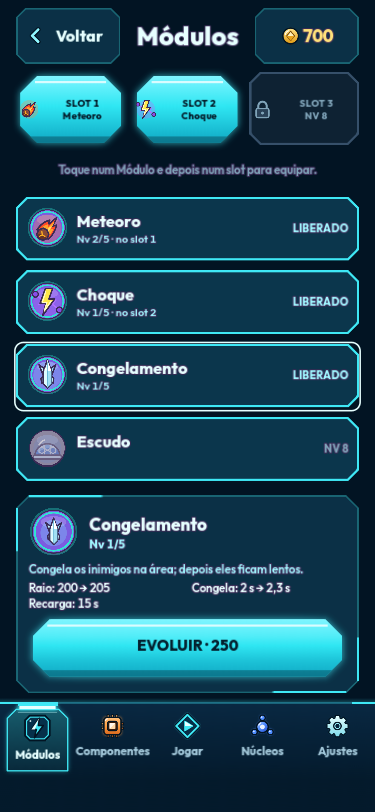
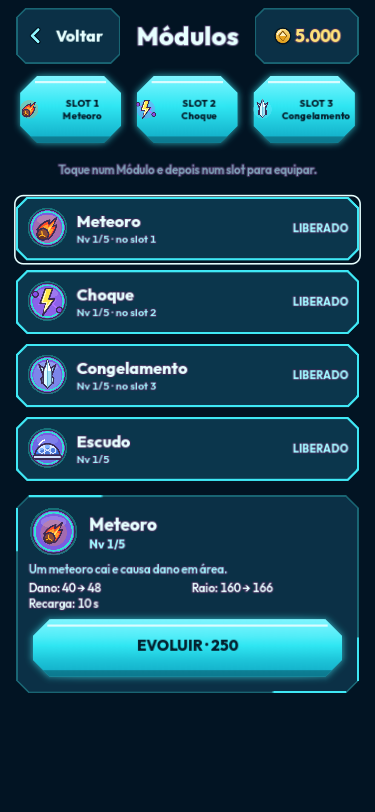
T-301 ressalvas do QA do M5 e fechamento do T-220 (BRF-174)

diff --git a/docs/ui.md b/docs/ui.md
@@ -264,7 +264,7 @@ Spec visual em `docs/arte.md` §11.9; navegação em `docs/arquitetura.md` ("Han
 - **Estados:** ativo = `ui_nav_tab_active` + traço ciano no topo; normal = ícone `ui_icon_nav_*`; pressionado = `ui_nav_tab_pressed`; **bloqueado** = `ui_icon_*_locked` (45% já na arte, sem alfa no código), deslocado 12 px à esquerda, com o selo `ui_nav_lock_chip` (9-slice 38/12/12/12; "NV n" à direita do cadeado) e rótulo `#6F8BA3`.
 - **Bloqueios** (decisão 63, `HangarBarLogic`): Módulos NV 2, Núcleos NV 3, Componentes NV 4; Jogar e Ajustes livres. Tocar no bloqueado não navega: mostra o aviso "{nome} libera no NV {n}" (1,6 s + fade) acima da barra; se a faixa até o JOGAR não couber, o aviso sobe para logo acima do JOGAR, nunca por cima dele.
 - **Núcleos (T-207, BRF-155; sem níveis, T-299, BRF-159, decisão 65)** (`src/ui/screens/cores_screen.*`, `CoresScreen`): topo como o "Em breve" com o saldo de Moeda (`ui_holo_pill` + `ui_icon_coin_small`); árvore 3 × 4 na grade do `assets/ui/README.md` (colunas 150/375/600, passo 200, px do viewport 720) num `ScrollContainer` (abre no topo; só rola se o nó selecionado estiver fora da vista; `follow_focus` desligado); painel de detalhe fixo acima da barra. Cada Núcleo é **compra única**: nó = `Button` 128 (moldura 112) sem selo, com 4 estados por `CoresScreen.node_state`: **bloqueado** (`locked` + ícone `_off`), **disponível** (`ui_talent_node`), **sem Moeda** (mesma moldura e ícone a 60% de alfa) e **comprado** (`owned`); `_selected` no nó escolhido. Cabeçalho da coluna = só o nome do ramo. Ligações `Line2D` acesas quando o pai está comprado. Detalhe: nome, ramo, descrição, "Efeito: +X%", motivo em texto (sem Moeda, "Requer X", NV 3) e **COMPRAR · custo** (`MetaTalents.buy` → save → atualiza tudo); comprado vira **COMPRADO** desabilitado. **Redistribuir** abre a confirmação "Devolve X Moedas e zera os Núcleos" (`ui_cancel` fecha; enquanto aberta, a `HangarBar` (achada na árvore: no hangar real fica em `/root/Hangar`, a tela em `Hangar/Content`) fica com `process_mode` desabilitado, então não recebe toque) e chama `MetaTalents.respec`. Teclado: `ui_up/down/left/right` movem o foco (foco = seleção), `ui_accept` num nó leva ao Comprar. Efeito de compra: `CoresFx.play_buy` + trilho nas ligações novas (`play_max` não é mais usado). Testes: `tests/unit/ui/test_cores_screen.gd`. Capturas: `docs/img/nucleos-simples-*.png`.
-- **Módulos (T-216/T-217, BRF-168)** (`src/ui/screens/modules_screen.*`, `ModulesScreen`; `HangarNav.MODULES` já apontava para a cena, então o `SceneFlow` não mudou): topo igual ao dos Núcleos (Voltar, título, saldo de Moeda). **Faixa de 3 slots** (`Slot1..3`, alvo 126 px do viewport = 64+ px a 375×812): ocupado (placa primária + ícone + nome), vazio (secundária, "vazio") e bloqueado (placa apagada + cadeado + "NV n"). Abaixo, a linha de aviso (dica "Toque num Módulo e depois num slot", ou o resultado/motivo da última ação; motivos em laranja). **Lista** dos 4 Módulos num `ScrollContainer` (linha 126 px): ícone `ui_skill_frame_ready/locked` + `ui_icon_skill_*` (45% se bloqueado), nome, "Nv n/5 · no slot k", e à direita "LIBERADO" ou "NV n"; contorno ciano na linha escolhida. **Detalhe** fixo acima da barra: nome, "Nv n/5", descrição, valores em grade de 2 colunas ("Dano: 57 → 68"; no Nv 5 só o valor; bloqueado mostra o Nv 1), motivo ("Faltam X Moedas", "Libera no NV n") e **EVOLUIR · custo** (`MetaModules.upgrade` → save → atualiza tudo; "NÍVEL MÁXIMO" no Nv 5; desabilitado sem Moeda/bloqueado, e tocar nele treme). **Equipar:** tocar num Módulo o escolhe; tocar num slot liberado o equipa (troca se ocupado por outro); tocar no slot que já tem o escolhido o esvazia; o mesmo Módulo em dois slots é recusado com "X já está no slot n"; slot bloqueado avisa "libera no NV n". Persistência e partida: `MetaModules.equip/unequip` + `Backend.save_profile`; `SceneFlow.build_match_config` entrega `slot_modules` (valores do nível; `null` = vazio). Sem confirmação (evoluir é um toque; a barra só precisa bloquear quando houver confirmação, como em Núcleos). Textos `MODULE_*`/`MODULES_*`. Testes: `tests/unit/ui/test_modules_screen.gd`. Capturas: `docs/img/modulos-tela-{liberado,bloqueado,equipado,maximo}-{375x812,1280x720}.png`.
+- **Módulos (T-216/T-217, BRF-168)** (`src/ui/screens/modules_screen.*`, `ModulesScreen`; `HangarNav.MODULES` já apontava para a cena, então o `SceneFlow` não mudou): topo igual ao dos Núcleos (Voltar, título, saldo de Moeda). **Faixa de 3 slots** (`Slot1..3`, alvo 126 px do viewport = 64+ px a 375×812): ocupado (placa primária + ícone + nome), vazio (secundária, "vazio") e bloqueado (placa apagada + cadeado + "NV n"). Abaixo, a linha de aviso (dica "Toque num Módulo e depois num slot", ou o resultado/motivo da última ação; motivos em laranja). **Lista** dos 4 Módulos num `ScrollContainer` (linha 126 px): ícone `ui_skill_frame_ready/locked` + `ui_icon_skill_*` (45% se bloqueado), nome, "Nv n/5 · no slot k", e à direita "LIBERADO" ou "NV n"; contorno ciano na linha escolhida. **Detalhe** fixo acima da barra: nome, "Nv n/5", descrição, valores em grade de 2 colunas ("Dano: 57 → 68"; no Nv 5 só o valor; bloqueado mostra o Nv 1), motivo ("Faltam X Moedas", "Libera no NV n") e **EVOLUIR · custo** (`MetaModules.upgrade` → save → atualiza tudo; "NÍVEL MÁXIMO" no Nv 5; desabilitado sem Moeda/bloqueado, e tocar nele treme). **Equipar:** tocar num Módulo o escolhe; tocar num slot liberado o equipa (troca se ocupado por outro); tocar no slot que já tem o escolhido o esvazia; o mesmo Módulo em dois slots é recusado com "X já está no slot n"; slot bloqueado avisa "libera no NV n". Persistência e partida: `MetaModules.equip/unequip` + `Backend.save_profile`; `SceneFlow.build_match_config` entrega `slot_modules` (valores do nível; `null` = vazio). Sem confirmação (evoluir é um toque; a barra só precisa bloquear quando houver confirmação, como em Núcleos). Textos `MODULE_*`/`MODULES_*`. Testes: `tests/unit/ui/test_modules_screen.gd`. **Janela larga (BRF-174):** com viewport mais largo que alto a coluna vai a 1000 px, a lista vira grade de 2 colunas e a linha cai para 108 px (as 4 cabem em 1280×720; mouse); em retrato segue 1 coluna de 126 px. **Ícone no HUD (QA-M5-1):** `Hud.bind` lê `arena.skills.skills` (após o `_ready` da Arena) e chama `Hud.apply_slot_modules`: ícone de cada slot = `SkillData.icon` do Módulo equipado; slot liberado sem Módulo = moldura vazia; `slot_icon_paths` agora vem vazio. `skill_shock/freeze/shield.tres` ganharam `icon`. Testes: `test_skill_icon.gd`. Capturas: `docs/img/modulos-tela-{liberado,bloqueado,equipado,maximo}-{375x812,1280x720}.png`.
 - **"Em breve"** (`coming_soon_screen`): destinos sem cena. Topo com Voltar (`ui_holo_pill` + `ui_icon_back`, alvo ≥ 64) e título; painel `ui_holo_panel` com o ícone do conceito da aba, "Em breve" e legenda. A barra continua visível com a aba ativa; Voltar → `SceneFlow.hangar_back`.
 
 ## 9. Safe area

diff --git a/docs/backlog.md b/docs/backlog.md
@@ -135,8 +135,8 @@
 | T-217 | Seleção de Módulos por slot: equipar, salvar e levar ao `MatchConfig` (tam. M) | M5 | AG02 + AG07 | feita |
 | T-218 | Mira manual (arrastar) para os Módulos novos que precisarem (tam. P) | M5 | AG01 + AG02 | feita |
 | T-219 | Balanceamento dos 4 Módulos e bot que usa todos (tam. M) | M5 | AG04 | feita |
-| T-220 | Validação e fechamento da v0.2.3 (tag) (tam. P) | M5 | AG03 + AG00 | em andamento |
-| T-301 | Ressalvas do QA do M5: ícone do Módulo equipado no HUD (grave), lista de Módulos em 1280×720, capturas atualizadas; BRF-174 (tam. P) | M5 | AG02 | em andamento |
+| T-220 | Validação e fechamento da v0.2.3 (tag) (tam. P) | M5 | AG03 + AG00 | feita (QA: passa com ressalvas após a T-301; falta a tag após o merge) |
+| T-301 | Ressalvas do QA do M5: ícone do Módulo equipado no HUD (grave), lista de Módulos em 1280×720, capturas atualizadas; BRF-174 (tam. P) | M5 | AG02 | feita |
 | T-221 | Design das recompensas na partida: quando aparecem, cura × baú, conteúdo do baú (Moeda) (tam. P) | M6 | AG04 | a fazer |
 | T-222 | Lógica: escolha entre ondas, cura aplicada, Moeda do baú somada ao resultado (tam. M) | M6 | AG01 | a fazer |
 | T-223 | Janela de escolha na partida (pausa, 2 cartões, toque e teclado) (tam. M) | M6 | AG02 | a fazer |

diff --git a/docs/qa/qa-M5.md b/docs/qa/qa-M5.md
@@ -38,3 +38,7 @@ Fluxo completo e fps no navegador; medição de quadro do pior caso (choque 5 sa
 7. Veja o escudo absorvendo, o choque saltando, o congelamento parando e depois retardando (o chefe só retarda).
 8. Desempenho com tudo na tela (3 Módulos + muitos inimigos), efeitos reduzidos ligados e desligados; pausa ao trocar de aba; safe area.
 9. Dificuldade: com Módulos evoluídos a partida ficou fácil demais? O custo de 250 a 2.650 por nível parece justo?
+
+
+## Reteste (AG00, 2026-11-18)
+QA-M5-1 e os menores de UI corrigidos na T-301 (BRF-174). GUT 604/604, sem Parse error nem pendente. **Veredito final: passa com ressalvas** (o que só o iPhone valida fica com o dono).
